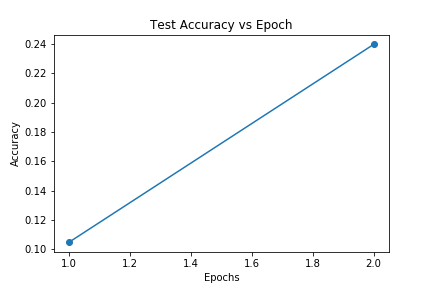
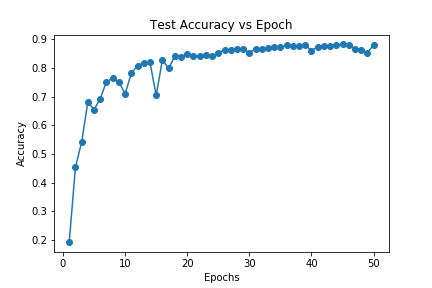
ADddressed fix batchsize problem

diff --git a/Assignment_2_Programming/code/crf.py b/Assignment_2_Programming/code/crf.py
@@ -69,7 +69,8 @@ class CRF_NET(nn.Module):
         """        
         #print(len(X), X[0].shape, X[1].shape)
         batchLoss = 0
-        for i in range(self.batch_size):
+        bSize = X[0].shape[0]
+        for i in range(bSize):
             # Reshape the word to (14,1,16,8)
             word = X[0][i].reshape(self.m, 1, self.input_dim[0],self.input_dim[1])
             # conv operation performed for one word independently to every letter
@@ -94,9 +95,9 @@ class CRF_NET(nn.Module):
     # input: T: (26, 26), letter-letter transition matrix
     # output: letter_indices: (m, 1), letter labels of a word
     def predict(self, x):
-        print("Here")
-        decods = torch.zeros(self.batch_size, self.m, dtype=torch.int)
-        for i in range(self.batch_size):
+        bSize = x[0].shape[0]
+        decods = torch.zeros(bSize, self.m, dtype=torch.int)
+        for i in range(bSize):
             # Reshape the word to (14,1,16,8)
             word = x[0][i].reshape(self.m,1, self.input_dim[0],self.input_dim[1])
             # conv operation performed for one word independently to every letter

diff --git a/Assignment_2_Programming/code/dnn_template_fullNet.py b/Assignment_2_Programming/code/dnn_template_fullNet.py
@@ -325,14 +325,16 @@ class Net(nn.Module):
         print("Training Loss: {}" .format(self.trainLoss))
         print("Test Loss:     {}" .format(self.testLoss))
 
-    def plot(self,figType = 'acc', saveFile = None):
+    def plot(self, inData = None, figType = 'acc', saveFile = None):
         if figType == 'acc':
             fig = plt.figure()
             plt.title('Test Accuracy vs Epoch')
             plt.xlabel('Epochs')
             plt.ylabel('Accuracy')
             xAxis = np.arange(len(self.history[2]))+1
-            plt.plot(xAxis, self.history[2], marker = 'o')
+            plt.plot(xAxis, self.history[2], marker = 'o', label = 'Letterwize Acc')
+            if inData is not None:
+                plt.plot(xAxis, inData, marker = 'o', label = 'Wordwise Acc')
             if saveFile is not None:
                 plt.savefig(saveFile)
             return fig
